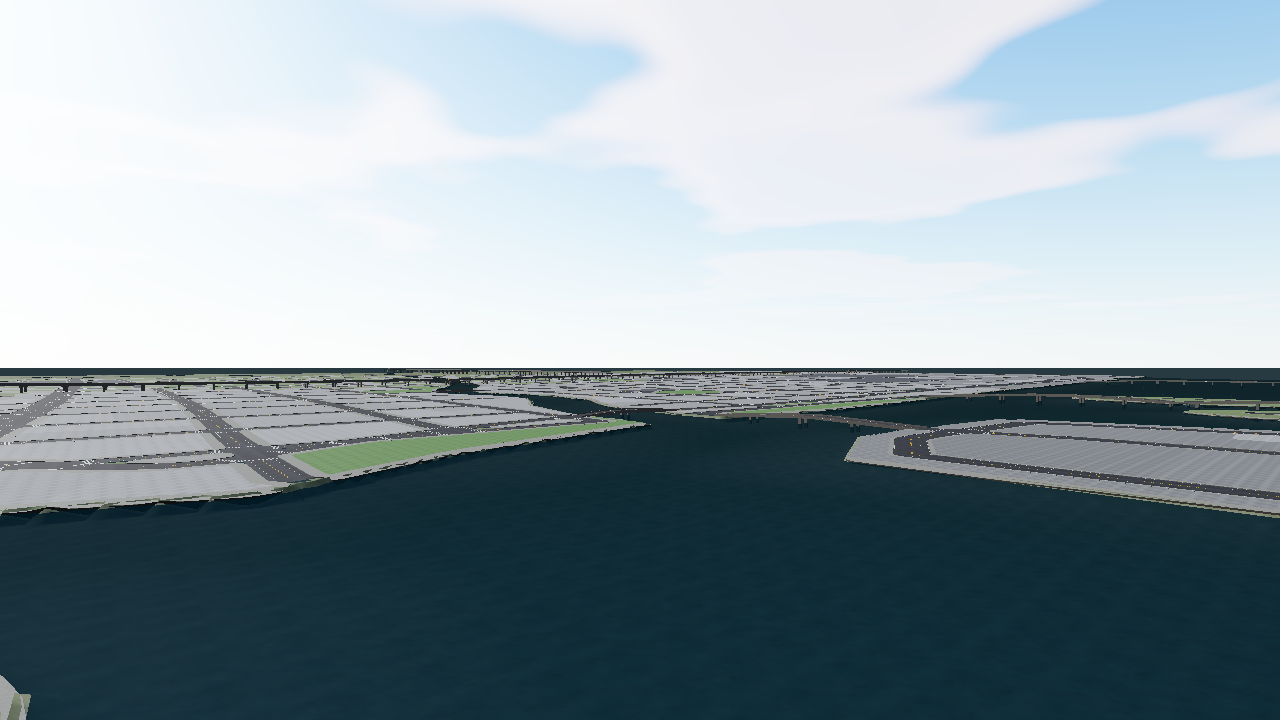
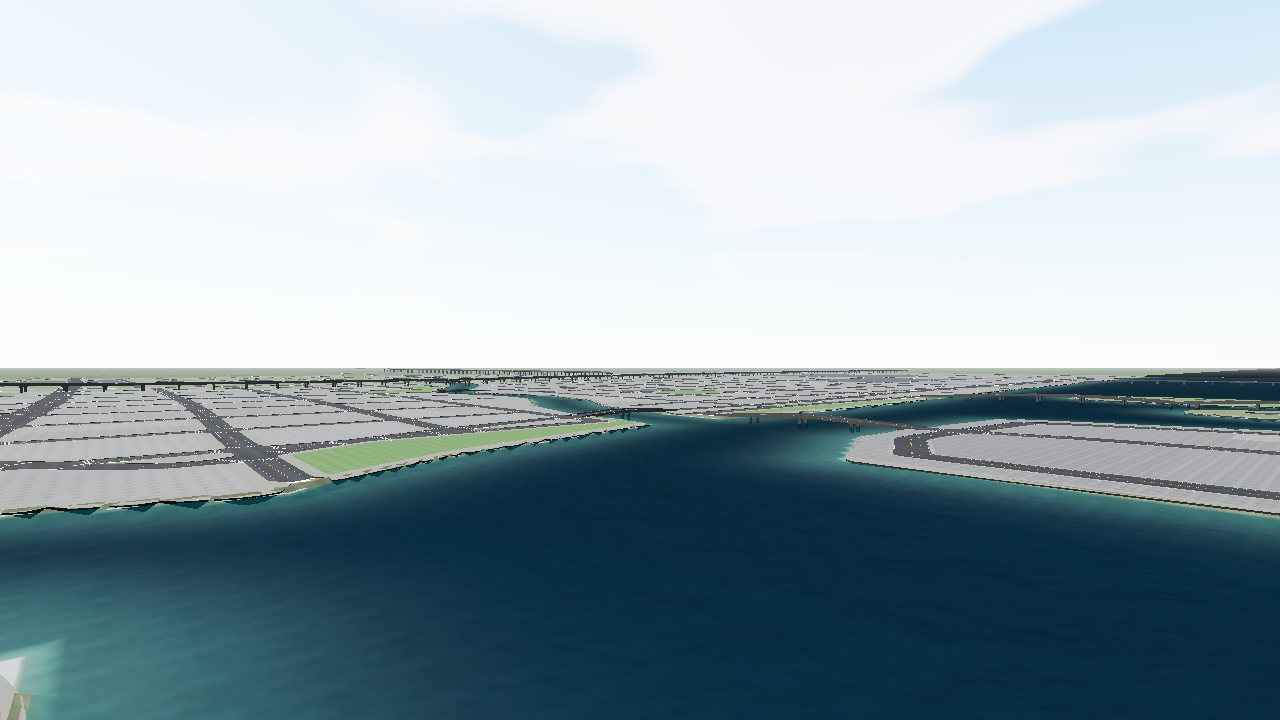
Water: depth-shaded shallows, ripples, shoreline foam and beach surf
The map's water is now a mesh at sea level carrying seabed depth and distance to
shore per vertex, so the shader shades turquoise shallows over sand, blue-green
mid depths and deep blue water, fades clarity with depth, scrolls two ripple
layers (calmer in shallows and toward the horizon), draws foam on every shore and
rolling, broken surf lines on the ocean beach. Open sea frames the map.

Claude-Session: https://claude.ai/code/session_01UTQ5rGxVvYxVSdZszpfjTY

Changed region(s): [[0.0, 0.4889, 1.0, 1.0], [0.7188, 0.0, 1.0, 0.3056], [0.4062, 0.0306, 0.5, 0.1222]]

diff --git a/src/render/waterMaterial.ts b/src/render/waterMaterial.ts
@@ -1,0 +1,136 @@
+// Water: physically based surface (sky reflections, sun glints) with colour and clarity
+// driven by the seabed depth baked into the mesh, two scrolling ripple layers, shoreline
+// foam and rolling surf lines on the ocean beach.
+import * as THREE from 'three';
+
+export interface WaterMaterial {
+  material: THREE.MeshStandardMaterial;
+  update(time: number): void;
+}
+
+export function createWaterMaterial(waves: THREE.Texture): WaterMaterial {
+  const uniforms = {
+    uTime: { value: 0 },
+    uWaves: { value: waves },
+    uShallow: { value: new THREE.Color(0x49c4c1).convertSRGBToLinear() },
+    uMid: { value: new THREE.Color(0x13808f).convertSRGBToLinear() },
+    uDeep: { value: new THREE.Color(0x0a3d57).convertSRGBToLinear() },
+    uFoam: { value: new THREE.Color(0xf4f6f4).convertSRGBToLinear() },
+  };
+  const material = new THREE.MeshStandardMaterial({
+    color: 0xffffff,
+    roughness: 0.035,
+    metalness: 0.0,
+    transparent: true,
+    depthWrite: false,
+    envMapIntensity: 1.0,
+  });
+  material.name = 'water';
+  material.customProgramCacheKey = () => 'solmar-water-v1';
+  material.onBeforeCompile = (shader) => {
+    Object.assign(shader.uniforms, uniforms);
+    shader.vertexShader = shader.vertexShader
+      .replace('#include <common>', '#include <common>\nattribute vec3 aWater;\nvarying vec3 vWater;\nvarying vec3 vWaterPos;')
+      .replace('#include <begin_vertex>', '#include <begin_vertex>\nvWater = aWater;\nvWaterPos = (modelMatrix * vec4(position, 1.0)).xyz;');
+    shader.fragmentShader = shader.fragmentShader
+      .replace(
+        '#include <common>',
+        `#include <common>
+uniform float uTime;
+uniform sampler2D uWaves;
+uniform vec3 uShallow;
+uniform vec3 uMid;
+uniform vec3 uDeep;
+uniform vec3 uFoam;
+varying vec3 vWater;
+varying vec3 vWaterPos;`,
+      )
+      .replace(
+        '#include <color_fragment>',
+        `#include <color_fragment>
+float wDepth = max(vWater.x, 0.0);
+float wShore = vWater.y;
+float wSurf = vWater.z;
+float wDist = distance(cameraPosition, vWaterPos);
+vec3 wCol = mix(uShallow, uMid, smoothstep(0.4, 3.5, wDepth));
+wCol = mix(wCol, uDeep, smoothstep(3.5, 14.0, wDepth));
+float wAlpha = mix(0.22, 0.94, smoothstep(0.1, 4.5, wDepth));
+// Noise from the ripple texture for breaking up foam edges.
+float wNoise = texture2D(uWaves, vWaterPos.xz * 0.021 + vec2(uTime * 0.01, 0.0)).r;
+// Thin foam hugging every shoreline.
+float wFoam = (1.0 - smoothstep(0.02, 0.35 + 0.25 * wNoise, wDepth)) * 0.85;
+// Rolling surf lines on the ocean beach, moving toward the sand. Wave crests are broken
+// into segments along the shore and vary in spacing, like real sets of waves.
+float alongNoise = texture2D(uWaves, vec2(vWaterPos.z * 0.004, vWaterPos.x * 0.002) + vec2(0.0, uTime * 0.003)).g;
+float phase = wShore * (0.36 + 0.1 * alongNoise) + uTime * 1.25 + wNoise * 5.0;
+float band = sin(phase);
+float crest = smoothstep(0.82 + 0.12 * alongNoise, 0.985, band);
+float broken = smoothstep(0.35, 0.65, texture2D(uWaves, vWaterPos.xz * 0.013 + vec2(uTime * 0.004, 0.0)).b);
+float surfZone = wSurf * smoothstep(-75.0, -10.0, wShore);
+wFoam = max(wFoam, surfZone * crest * mix(0.25, 1.0, broken) * (0.6 + 0.4 * wNoise));
+// Lingering foam patches in the swash zone.
+wFoam = max(wFoam, wSurf * smoothstep(-14.0, -2.0, wShore) * smoothstep(0.55, 0.8, wNoise) * 0.6);
+wFoam *= 1.0 - smoothstep(1500.0, 3500.0, wDist) * 0.7;
+diffuseColor.rgb = mix(wCol, uFoam, wFoam);
+diffuseColor.a = max(wAlpha, wFoam);`,
+      )
+      .replace(
+        '#include <roughnessmap_fragment>',
+        `#include <roughnessmap_fragment>
+roughnessFactor = mix(roughnessFactor, 0.75, wFoam);`,
+      )
+      .replace(
+        '#include <normal_fragment_maps>',
+        `#include <normal_fragment_maps>
+{
+  vec2 uv1 = vWaterPos.xz * 0.045 + vec2(uTime * 0.018, uTime * 0.011);
+  vec2 uv2 = vWaterPos.xz * 0.011 - vec2(uTime * 0.007, uTime * 0.013);
+  vec3 n1 = texture2D(uWaves, uv1).xyz * 2.0 - 1.0;
+  vec3 n2 = texture2D(uWaves, uv2).xyz * 2.0 - 1.0;
+  // Calmer in the shallows and toward the horizon (less shimmer and aliasing).
+  float strength = 0.55 * smoothstep(0.0, 2.0, wDepth + 0.3) * (1.0 - 0.75 * smoothstep(250.0, 3000.0, wDist));
+  vec2 slope = (n1.xy + n2.xy * 1.4) * strength;
+  vec3 nWorld = normalize(vec3(slope.x, 1.0, slope.y));
+  normal = normalize((viewMatrix * vec4(nWorld, 0.0)).xyz);
+}`,
+      );
+  };
+  return {
+    material,
+    update(time: number) {
+      uniforms.uTime.value = time;
+    },
+  };
+}
+
+/** Sea surface around the playable map (four slabs framing it), deep-water attributes. */
+export function farWaterGeometry(mapHalf: number, extent: number): THREE.BufferGeometry {
+  const rects: [number, number, number, number][] = [
+    [-extent, -extent, extent, -mapHalf],
+    [-extent, mapHalf, extent, extent],
+    [-extent, -mapHalf, -mapHalf, mapHalf],
+    [mapHalf, -mapHalf, extent, mapHalf],
+  ];
+  const pos: number[] = [];
+  const nrm: number[] = [];
+  const uv: number[] = [];
+  const water: number[] = [];
+  const idx: number[] = [];
+  for (const [x0, z0, x1, z1] of rects) {
+    const base = pos.length / 3;
+    for (const [x, z] of [[x0, z0], [x1, z0], [x1, z1], [x0, z1]]) {
+      pos.push(x, -0.02, z);
+      nrm.push(0, 1, 0);
+      uv.push(x / 32, z / 32);
+      water.push(25, -500, 0);
+    }
+    idx.push(base, base + 3, base + 2, base, base + 2, base + 1);
+  }
+  const g = new THREE.BufferGeometry();
+  g.setAttribute('position', new THREE.Float32BufferAttribute(pos, 3));
+  g.setAttribute('normal', new THREE.Float32BufferAttribute(nrm, 3));
+  g.setAttribute('uv', new THREE.Float32BufferAttribute(uv, 2));
+  g.setAttribute('aWater', new THREE.Float32BufferAttribute(water, 3));
+  g.setIndex(idx);
+  return g;
+}

diff --git a/src/render/cityRenderer.ts b/src/render/cityRenderer.ts
@@ -4,6 +4,8 @@ import * as THREE from 'three';
 import type { CityMeshes } from '../world/mesh/chunks';
 import { toBufferGeometry } from './meshConvert';
 import { asphaltTexture, concreteTexture, detailTexture, slabTexture, waterNormalTexture } from './textures';
+import { createWaterMaterial, farWaterGeometry, type WaterMaterial } from './waterMaterial';
+import { MAP_HALF } from '../world/config';
 
 interface BucketStyle {
   material: THREE.Material;
@@ -18,6 +20,7 @@ export class CityRenderer {
   readonly materials = new Map<string, BucketStyle>();
   private readonly water: THREE.Mesh;
   private readonly waterNormal: THREE.Texture;
+  private readonly waterMat: WaterMaterial;
   private time = 0;
 
   constructor(scene: THREE.Scene, city: CityMeshes) {
@@ -27,6 +30,7 @@ export class CityRenderer {
     const detail = detailTexture();
     const concrete = concreteTexture();
     this.waterNormal = waterNormalTexture();
+    this.waterMat = createWaterMaterial(this.waterNormal);
 
     const std = (params: THREE.MeshStandardMaterialParameters): THREE.MeshStandardMaterial => new THREE.MeshStandardMaterial(params);
     const paint = (color: number): THREE.MeshStandardMaterial =>
@@ -45,6 +49,7 @@ export class CityRenderer {
     set('lotBase', std({ map: detail, vertexColors: true, roughness: 0.95 }), false, true, 1);
     set('lotGround', std({ map: detail, vertexColors: true, roughness: 0.93, polygonOffset: true, polygonOffsetFactor: -1, polygonOffsetUnits: -2 }), false, true, 2);
     set('concrete', std({ map: concrete, color: 0xcfcac1, roughness: 0.82 }), true, true, 1);
+    set('water', this.waterMat.material, false, true, 10);
 
     for (const chunk of city.chunks) {
       const group = new THREE.Group();
@@ -77,30 +82,18 @@ export class CityRenderer {
     this.root.add(far);
     scene.add(this.root);
 
-    // Sea surface: one big plane at sea level, larger than the map so the horizon is water.
-    const waterMat = new THREE.MeshStandardMaterial({
-      color: 0x0f3c46,
-      roughness: 0.06,
-      metalness: 0.0,
-      normalMap: this.waterNormal,
-      normalScale: new THREE.Vector2(0.35, 0.35),
-      transparent: true,
-      opacity: 0.84,
-      depthWrite: false,
-    });
-    this.waterNormal.repeat.set(900, 900);
-    const plane = new THREE.PlaneGeometry(24000, 24000, 1, 1).rotateX(-Math.PI / 2);
-    this.water = new THREE.Mesh(plane, waterMat);
+    // Open sea around the map; the map's own water comes from the chunk meshes.
+    this.water = new THREE.Mesh(farWaterGeometry(MAP_HALF, 14000), this.waterMat.material);
     this.water.name = 'sea';
-    this.water.position.y = 0;
-    this.water.renderOrder = 5;
+    this.water.renderOrder = 10;
     this.water.receiveShadow = true;
+    this.water.matrixAutoUpdate = false;
     scene.add(this.water);
   }
 
   update(dt: number): void {
     this.time += dt;
-    this.waterNormal.offset.set(this.time * 0.004, this.time * 0.0025);
+    this.waterMat.update(this.time);
   }
 
   /** All materials, e.g. for shadow/fog registration by the atmosphere module. */

diff --git a/src/world/mesh/waterMesh.ts b/src/world/mesh/waterMesh.ts
@@ -1,0 +1,45 @@
+// Water surface for the playable map: a grid at sea level over every wet cell, with
+// per-vertex seabed depth and distance to shore so the shader can shade shallows,
+// depth colour and surf without a depth pre-pass.
+import { MAP_HALF } from '../config';
+import { SHORE_TYPES } from '../gen/terrain';
+import type { WorldData } from '../gen/world';
+import type { MeshBuilder } from './meshData';
+
+const STEP = 2; // terrain samples per water vertex (8 m)
+
+export function buildWaterTile(world: WorldData, x0: number, z0: number, size: number, out: MeshBuilder): void {
+  const t = world.terrain;
+  const n = t.n;
+  const i0 = Math.round((x0 - t.origin) / t.res);
+  const j0 = Math.round((z0 - t.origin) / t.res);
+  const cells = Math.round(size / t.res / STEP);
+  const count = cells + 1;
+  out.declareExtra('aWater', 3);
+  const ids = new Int32Array(count * count);
+  const wet = new Uint8Array(count * count);
+  for (let jj = 0; jj < count; jj++) {
+    for (let ii = 0; ii < count; ii++) {
+      const i = Math.min(n - 1, i0 + ii * STEP);
+      const j = Math.min(n - 1, j0 + jj * STEP);
+      const k = j * n + i;
+      const x = t.origin + i * t.res;
+      const z = t.origin + j * t.res;
+      const depth = -t.height[k];
+      const surf = SHORE_TYPES[t.shoreType[k]] === 'beach' && x > 1300 ? 1 : 0;
+      wet[jj * count + ii] = depth > -0.25 ? 1 : 0;
+      // aWater: seabed depth (m), signed distance to shore (m), surf zone flag.
+      ids[jj * count + ii] = out.vertex(x, 0, z, 0, 1, 0, x / 32, z / 32, undefined, { aWater: [depth, t.shoreDist[k], surf] });
+    }
+  }
+  for (let jj = 0; jj + 1 < count; jj++) {
+    for (let ii = 0; ii + 1 < count; ii++) {
+      const a = jj * count + ii;
+      if (!(wet[a] || wet[a + 1] || wet[a + count] || wet[a + count + 1])) continue;
+      out.tri(ids[a], ids[a + count], ids[a + count + 1]);
+      out.tri(ids[a], ids[a + count + 1], ids[a + 1]);
+    }
+  }
+}
+
+export const WATER_EXTENT = MAP_HALF;

diff --git a/src/world/mesh/chunks.ts b/src/world/mesh/chunks.ts
@@ -11,6 +11,7 @@ import { buildRoads } from './roadMesh';
 import { buildBridges, buildHighways } from './structures';
 import { buildFarTerrain } from './farTerrain';
 import { buildTerrainTile } from './terrainMesh';
+import { buildWaterTile } from './waterMesh';
 
 /** Render chunk size (m): 8 x 8 chunks over the map. */
 export const RENDER_CHUNK = 512;
@@ -61,6 +62,7 @@ export function buildCityMeshes(world: WorldData, progress: (stage: string, f: n
   for (let z0 = -MAP_HALF; z0 < MAP_HALF; z0 += TILE) {
     for (let x0 = -MAP_HALF; x0 < MAP_HALF; x0 += TILE) {
       buildTerrainTile(world, h, x0, z0, TILE, noise, sink(x0 + TILE / 2, z0 + TILE / 2, 'terrain'));
+      buildWaterTile(world, x0, z0, TILE, sink(x0 + TILE / 2, z0 + TILE / 2, 'water'));
     }
   }
 

diff --git a/tests/mesh.test.ts b/tests/mesh.test.ts
@@ -12,7 +12,7 @@ beforeAll(() => {
   ms = performance.now() - t0;
 });
 
-const UP_BUCKETS = new Set(['terrain', 'road', 'paintWhite', 'paintYellow', 'sidewalk', 'lotGround', 'lotBase']);
+const UP_BUCKETS = new Set(['terrain', 'road', 'paintWhite', 'paintYellow', 'sidewalk', 'lotGround', 'lotBase', 'water']);
 
 describe('city meshes', () => {
   it('builds in reasonable time and reports sizes', () => {
